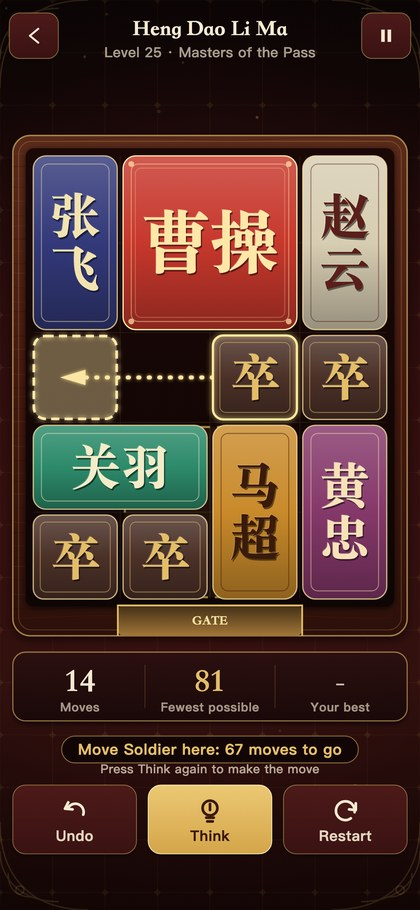
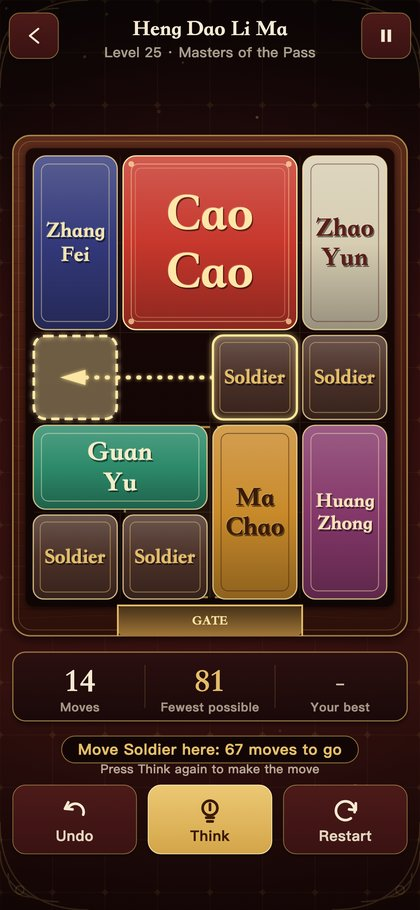
Huarong Dao: 1.0.1 browser preview and screenshots with English block names

diff --git a/games/huarong-dao-sliding-puzzle/play/game/src/view.js b/games/huarong-dao-sliding-puzzle/play/game/src/view.js
@@ -1,6 +1,6 @@
 // Everything drawn each frame. Reads state, changes nothing.
 import {
-  W, H, UI, DISPLAY, CARVE, GOLD, GOLD_HI, GOLD_LO, PAPER, text, rr, panel, button, background, star, drawBlock, icon, drawParticles, alpha, light, dark, blockColors,
+  W, H, UI, DISPLAY, CARVE, GOLD, GOLD_HI, GOLD_LO, PAPER, text, rr, panel, button, background, star, drawBlock, setBlockLang, icon, drawParticles, alpha, light, dark, blockColors,
 } from './art.js';
 import { parseLayout, reachable, applyMove, DIMS } from './engine.js';
 import { rectOf, nameBlocks, movesFor } from './puzzle.js';
@@ -152,7 +152,8 @@ function drawArt(ctx, name, x, y, w, h, S, b) {
   const bx = (cols) => cx - (CELL * cols * kb) / 2;
   if (name === 'logo') {
     miniBoard(ctx, HDLM_ROWS, cx - CELL * 4 * 0.2 / 2 * 1, y + 22, (h - 44) / (CELL * 5));
-    text(ctx, '华容道', x + w * 0.76, cy + 18, 64, GOLD, { font: CARVE, weight: 900, shadow: 'rgba(0,0,0,0.6)' });
+    if (S.lang === 'zh') text(ctx, '华容道', x + w * 0.76, cy + 18, 64, GOLD, { font: CARVE, weight: 900, shadow: 'rgba(0,0,0,0.6)' });
+    else { text(ctx, 'Huarong', x + w * 0.76, cy - 2, 50, GOLD, { font: DISPLAY, weight: 900, shadow: 'rgba(0,0,0,0.6)' }); text(ctx, 'Dao', x + w * 0.76, cy + 52, 50, GOLD, { font: DISPLAY, weight: 900, shadow: 'rgba(0,0,0,0.6)' }); }
   } else if (name === 'goal' || name === 'gate') {
     const rows = ['.BB.', 'ABBC', 'DEEF', 'DGHF', 'I..J'];
     const pieces = blocksOf(HDLM_ROWS).map((p) => ({ ...p }));
@@ -227,12 +228,13 @@ function drawArt(ctx, name, x, y, w, h, S, b) {
     icon(ctx, 'lock', cx + 190, y + h - 50, 40, 'rgba(246,234,210,0.7)');
   } else if (name === 'hdlm') {
     miniBoard(ctx, HDLM_ROWS, bx(4), y + 16, kb);
-    text(ctx, '横刀立马', x + w - 130, cy - 10, 50, GOLD, { font: CARVE, weight: 900, shadow: 'rgba(0,0,0,0.6)' });
+    if (S.lang === 'zh') text(ctx, '横刀立马', x + w - 130, cy - 10, 50, GOLD, { font: CARVE, weight: 900, shadow: 'rgba(0,0,0,0.6)' });
+    else { text(ctx, 'Heng Dao', x + w - 130, cy - 34, 42, GOLD, { font: DISPLAY, weight: 900, shadow: 'rgba(0,0,0,0.6)' }); text(ctx, 'Li Ma', x + w - 130, cy + 10, 42, GOLD, { font: DISPLAY, weight: 900, shadow: 'rgba(0,0,0,0.6)' }); }
     text(ctx, '81', x + w - 130, cy + 60, 60, PAPER, { font: DISPLAY, weight: 800 });
   } else if (name === 'auto') {
     ctx.strokeStyle = 'rgba(255,255,255,0.16)'; ctx.lineWidth = 12; ctx.beginPath(); ctx.arc(cx - 110, cy, 44, 0, Math.PI * 2); ctx.stroke();
     ctx.strokeStyle = GOLD; ctx.beginPath(); ctx.arc(cx - 110, cy, 44, -Math.PI / 2, -Math.PI / 2 + ((t * 0.4) % 1) * Math.PI * 2); ctx.stroke();
-    drawBlock(ctx, { x: cx + 10, y: cy - 77, w: CELL, h: CELL }, { t: 'S', name: { zh: '卒' } }, { glow: 0.5 + 0.5 * Math.sin(t * 5) });
+    drawBlock(ctx, { x: cx + 10, y: cy - 77, w: CELL, h: CELL }, { t: 'S', name: { zh: '卒', en: 'Soldier' } }, { glow: 0.5 + 0.5 * Math.sin(t * 5) });
     icon(ctx, 'pause', cx + 200, cy, 52, GOLD);
   } else if (name === 'demo' || name === 'lock') {
     icon(ctx, 'lock', cx, cy, 90, GOLD);
@@ -314,12 +316,12 @@ function drawTitle(ctx, S, ui) {
   g.addColorStop(0, '#fff3c4'); g.addColorStop(0.5, '#e4bd68'); g.addColorStop(1, '#b2842f');
   ctx.save();
   ctx.shadowColor = 'rgba(0,0,0,0.7)'; ctx.shadowBlur = 24; ctx.shadowOffsetY = 8;
-  ctx.font = `900 ${zh ? 180 : 168}px ${CARVE}`;
   ctx.textAlign = 'center';
   ctx.fillStyle = g;
-  ctx.fillText('华容道', 360, 292);
+  if (zh) { ctx.font = `900 180px ${CARVE}`; ctx.fillText('华容道', 360, 292); }
+  else { ctx.font = `900 100px ${DISPLAY}`; ctx.fillText('HUARONG', 360, 226); ctx.font = `900 70px ${DISPLAY}`; ctx.fillText('D A O', 360, 304); }
   ctx.restore();
-  text(ctx, zh ? 'HUARONG DAO' : 'HUARONG DAO · SLIDING PUZZLE', 360, 352, zh ? 40 : 32, 'rgba(246,234,210,0.85)', { font: DISPLAY, weight: 700 });
+  text(ctx, zh ? 'HUARONG DAO' : 'SLIDING PUZZLE', 360, 352, zh ? 40 : 34, 'rgba(246,234,210,0.85)', { font: DISPLAY, weight: 700 });
   text(ctx, tr(S.lang, 'tagline'), 360, 396, 26, 'rgba(246,234,210,0.62)', { weight: 500 });
   // the self-playing board
   const { pieces, lift } = attractState(S.t);
@@ -620,6 +622,7 @@ function drawPlay(ctx, S, ui) {
 }
 
 export function render(ctx, S, ui) {
+  setBlockLang(S.lang);
   ctx.textBaseline = 'alphabetic';
   switch (S.scene) {
     case 'title': drawTitle(ctx, S, ui); break;

diff --git a/games/huarong-dao-sliding-puzzle/play/game/src/art.js b/games/huarong-dao-sliding-puzzle/play/game/src/art.js
@@ -23,6 +23,9 @@ export const BLOCK = {
   huang: { base: '#85386a', ink: '#f7e2b8' },
   S: { base: '#4b3128', ink: '#e4bd68' },
 };
+// Which script the block faces carry: 'en' engraves the English names, 'zh' the carved characters.
+let BLOCK_LANG = 'en';
+export const setBlockLang = (l) => { BLOCK_LANG = l === 'zh' ? 'zh' : 'en'; };
 export const blockColors = (p) => {
   if (p.t === 'C') return BLOCK.C;
   if (p.t === 'S') return BLOCK.S;
@@ -215,18 +218,31 @@ export function drawBlock(ctx, r, p, o = {}) {
     ctx.fillStyle = alpha(col.ink, 0.7);
     for (const [cx, cy] of [[x + ins, y + ins], [x + w - ins, y + ins], [x + ins, y + h - ins], [x + w - ins, y + h - ins]]) { ctx.beginPath(); ctx.arc(cx, cy, 5, 0, Math.PI * 2); ctx.fill(); }
   }
-  // engraved characters
-  const chars = [...p.name.zh];
   const cx = x + w / 2, cy = y + h / 2;
-  let size, pos;
-  if (p.t === 'C') { size = 118; pos = chars.map((c, i) => [cx + (i - 0.5) * size * 1.0, cy + size * 0.34, c]); }
-  else if (p.t === 'V') { size = 84; pos = chars.map((c, i) => [cx, cy + (i - 0.5) * size * 1.06 + size * 0.34, c]); }
-  else if (p.t === 'H') { size = 84; pos = chars.map((c, i) => [cx + (i - 0.5) * size * 1.0, cy + size * 0.34, c]); }
-  else { size = 84; pos = [[cx, cy + size * 0.34, chars[0]]]; }
-  for (const [tx, ty, c] of pos) {
-    text(ctx, c, tx + 2, ty + 3, size, 'rgba(0,0,0,0.5)', { font: CARVE, weight: 900 });
-    text(ctx, c, tx - 1, ty - 1, size, 'rgba(255,255,255,0.18)', { font: CARVE, weight: 900 });
-    text(ctx, c, tx, ty, size, col.ink, { font: CARVE, weight: 900 });
+  const engrave = (str, tx, ty, size, font, weight) => {
+    text(ctx, str, tx + 2, ty + 3, size, 'rgba(0,0,0,0.5)', { font, weight });
+    text(ctx, str, tx - 1, ty - 1, size, 'rgba(255,255,255,0.18)', { font, weight });
+    text(ctx, str, tx, ty, size, col.ink, { font, weight });
+  };
+  if (BLOCK_LANG === 'en') {
+    // engraved English names, one word per line, fitted to the block's inner frame
+    const words = (p.name.en ?? p.name.zh).split(' ');
+    const lines = p.t === 'C' ? words : words.length > 1 ? words : [words[0]];
+    const availW = w - (ins + 8) * 2, availH = h - (ins + 6) * 2;
+    ctx.font = `900 100px ${DISPLAY}`;
+    const widest = Math.max(...lines.map((l) => ctx.measureText(l).width)) / 100;
+    const cap = p.t === 'C' ? 92 : p.t === 'S' ? 40 : p.t === 'V' ? 62 : 56;
+    const size = Math.min(cap, availW / widest, availH / (lines.length * 1.08));
+    const lh = size * 1.08;
+    lines.forEach((l, i) => engrave(l, cx, cy + (i - (lines.length - 1) / 2) * lh + size * 0.34, size, DISPLAY, 900));
+  } else {
+    const chars = [...p.name.zh];
+    let size, pos;
+    if (p.t === 'C') { size = 118; pos = chars.map((c, i) => [cx + (i - 0.5) * size * 1.0, cy + size * 0.34, c]); }
+    else if (p.t === 'V') { size = 84; pos = chars.map((c, i) => [cx, cy + (i - 0.5) * size * 1.06 + size * 0.34, c]); }
+    else if (p.t === 'H') { size = 84; pos = chars.map((c, i) => [cx + (i - 0.5) * size * 1.0, cy + size * 0.34, c]); }
+    else { size = 84; pos = [[cx, cy + size * 0.34, chars[0]]]; }
+    for (const [tx, ty, c] of pos) engrave(c, tx, ty, size, CARVE, 900);
   }
   if (o.glow) {
     ctx.strokeStyle = `rgba(255,236,160,${0.95 * o.glow})`;

diff --git a/games/huarong-dao-sliding-puzzle/play/game/src/screens.js b/games/huarong-dao-sliding-puzzle/play/game/src/screens.js
@@ -63,8 +63,8 @@ export function buildUi(S) {
       b.push({ t: 'row', size: 28, minH: 96, items: [{ id: 'about', label: T('aboutBtn') }, { id: 'settings', label: T('settingsBtn') }] });
       ui.blocks = b;
       ui.fixed = [
-        { id: 'lang:en', rect: LANG_EN, kind: S.lang === 'en' ? 'on' : 'normal', label: 'English', size: 25 },
-        { id: 'lang:zh', rect: LANG_ZH, kind: S.lang === 'zh' ? 'on' : 'normal', label: '中文', size: 27 },
+        { id: 'lang:en', rect: LANG_EN, kind: S.lang === 'en' ? 'on' : 'normal', label: 'Play in English', size: 25 },
+        { id: 'lang:zh', rect: LANG_ZH, kind: S.lang === 'zh' ? 'on' : 'normal', label: '中文 游戏', size: 27 },
       ];
       break;
     }
@@ -127,7 +127,7 @@ export function buildUi(S) {
       const b = [];
       b.push({ t: 'h', text: T('settingsBtn'), size: 36 });
       b.push({ t: 'p', text: T('language'), size: 24, gap: 6 });
-      b.push({ t: 'row', size: 28, items: [{ id: 'lang:en', label: 'English', kind: S.lang === 'en' ? 'on' : 'normal' }, { id: 'lang:zh', label: '中文', kind: S.lang === 'zh' ? 'on' : 'normal' }] });
+      b.push({ t: 'row', size: 28, items: [{ id: 'lang:en', label: 'Play in English', kind: S.lang === 'en' ? 'on' : 'normal' }, { id: 'lang:zh', label: '中文 游戏', kind: S.lang === 'zh' ? 'on' : 'normal' }] });
       b.push({ t: 'btn', id: 'set:sound', label: S.sound ? T('soundOn') : T('soundOff'), kind: S.sound ? 'on' : 'normal', size: 28 });
       b.push({ t: 'p', text: `${T('thinkTime')}: ${THINK_STEPS[S.thinkIdx]}${T('seconds')}`, size: 24, gap: 6 });
       b.push({ t: 'row', size: 30, items: [{ id: 'set:think-', label: '-', disabled: S.thinkIdx === 0 }, { id: 'set:think+', label: '+', disabled: S.thinkIdx === THINK_STEPS.length - 1 }] });

diff --git a/games/huarong-dao-sliding-puzzle/play/game/src/game.js b/games/huarong-dao-sliding-puzzle/play/game/src/game.js
@@ -198,6 +198,9 @@ export async function createGame(env) {
     } else if (n === 7) { S.scene = 'rules'; S.page.rules = 2;
     } else if (n === 8) { S.scene = 'howto'; S.page.howto = 1; S.textIdx = 2;
     } else if (n === 9) { S.scene = 'settings'; S.textIdx = 4;
+    } else if (n === 10) { S.lang = 'zh'; // review only: the Chinese title screen
+    } else if (n === 11) { S.lang = 'zh'; S.scene = 'rules'; S.page.rules = 2; // review only: Chinese Rules
+    } else if (n === 12) { S.lang = 'zh'; S.scene = 'settings'; // review only: Chinese Settings
     } else if (n === 6) { // the same game in Chinese, a block selected
       S.lang = 'zh';
       startLevel(lvIdx('red-cliffs'));
@@ -206,7 +209,7 @@ export async function createGame(env) {
       puz.selected = nextAutoMove(puz)?.id ?? -1;
     }
   }
-  const shotSeed = typeof location !== 'undefined' && /[?&]shot=1/.test(location.search) && config?.seed >= 900001 && config.seed <= 900009 ? config.seed - 900000 : 0;
+  const shotSeed = typeof location !== 'undefined' && /[?&]shot=1/.test(location.search) && config?.seed >= 900001 && config.seed <= 900012 ? config.seed - 900000 : 0;
   if (shotSeed) stageShot(shotSeed);
 
   // ------------------------------------------------------------------------------ ui plumbing

diff --git a/games/huarong-dao-sliding-puzzle/play/game/src/layout.js b/games/huarong-dao-sliding-puzzle/play/game/src/layout.js
@@ -35,8 +35,8 @@ export const NAV_NEXT = { x: 486, y: 1450, w: 210, h: 84 };
 export const DOC_BODY_NAV = { x: 48, y: 136, w: 624, h: 1190 };
 
 // ---- title screen ----
-export const LANG_EN = { x: 440, y: 24, w: 120, h: 64 };
-export const LANG_ZH = { x: 576, y: 24, w: 120, h: 64 };
+export const LANG_EN = { x: 150, y: 24, w: 270, h: 64 };
+export const LANG_ZH = { x: 432, y: 24, w: 240, h: 64 };
 export const MENU_REGION = { x: 24, y: 830, w: 672, h: 680 };
 
 // ---- overlays ----
